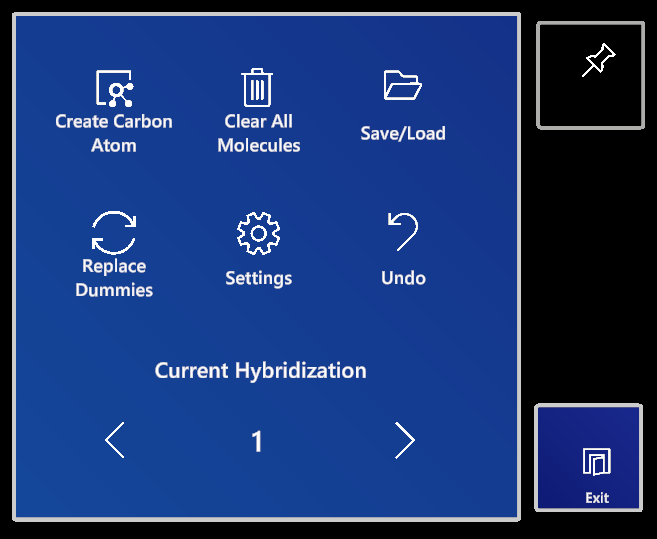
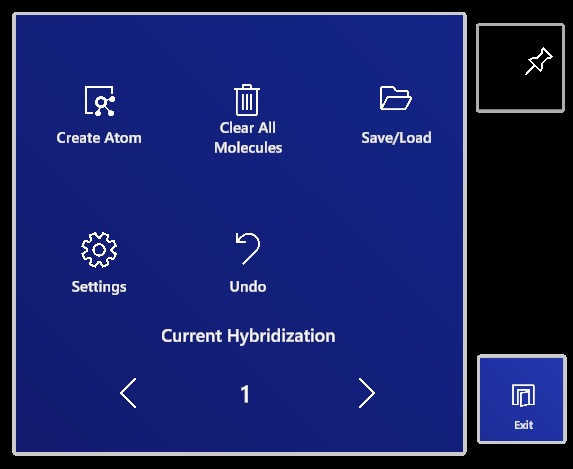
Updated documentation for near menu, added short description and screenshot for atom menu

diff --git a/src/routes/manual/02-normal_mode/00-menu.md b/src/routes/manual/02-normal_mode/00-menu.md
@@ -20,16 +20,14 @@ Pressing the **Undo** button once or multiple times will bring the scene back to
 Triggering the **Clear All Molecules** button empties the scene completely.
 All atoms and molecules are deleted.
 
-### Replace Dummies
-Each spawned atom is created with bonded dummy atoms.
-These dummy atoms can be switched to Hydrogen atoms with the **Replace Dummies** button.
-
 ### Create Atom
+Pressing the **Create Atom** Button spawns a scrollable atom menu at a fixed position within your current view.
+This menu can be navigated using the up and down arrows to the right; pressing a button within this menu creates a new atom of the chosen type.
+
+<img src="/images/manual/atom_menu.png" alt="Atom Menu" class="mx-auto max-w-md" />
+
 As already mentioned, atoms are created with dummies attached.
 These dummies are used to create bonds or to be switched out for Hydrogen atoms.
-
-> Currently in development: Create any atom you want, not only carbon.
-
 The number of dummies depends on the hybridization of the atom.
 
 ### Creation Hybridization

diff --git a/src/routes/manual/02-normal_mode/01-settings.md b/src/routes/manual/02-normal_mode/01-settings.md
@@ -2,7 +2,7 @@
 title: Settings
 ---
 
-<img src="/images/manual/settings.png" alt="Normal Mode Menu" class="mx-auto max-w-md" />
+<img src="/images/manual/settings.png" alt="Settings Menu" class="mx-auto max-w-md" />
 
 ### Toggle Mesh
 This button turns the rendering of the spatial awareness of [OpenXR](https://www.khronos.org/OpenXR/) on and off.
